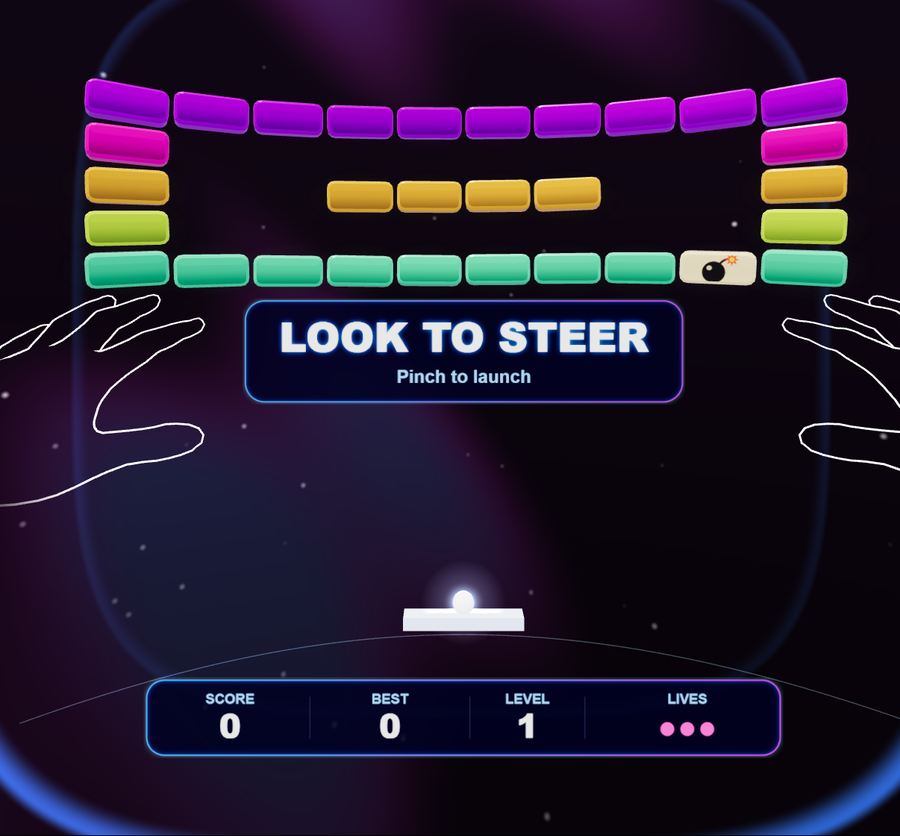
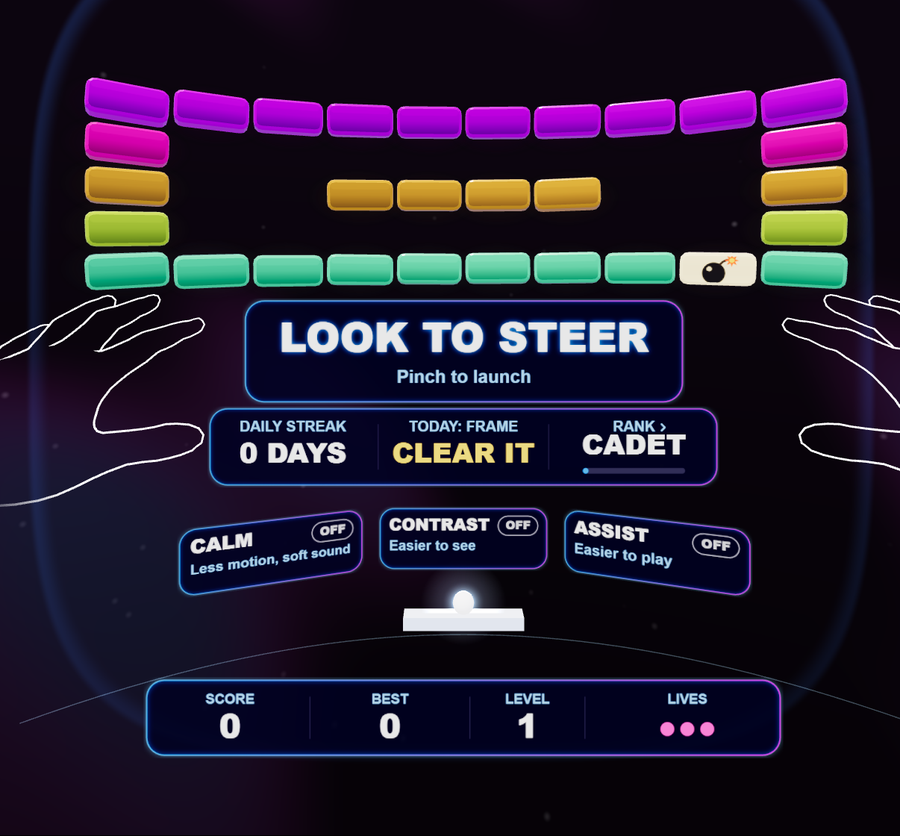
Show the option cards from the first screen, fix the rank chevron

diff --git a/src/look.ts b/src/look.ts
@@ -540,7 +540,13 @@ export function drawProgress(
   big(0, `${s.streak} ${s.streak === 1 ? 'DAY' : 'DAYS'}`, '#fff', s.streak > 0 ? h * 0.2 : 0);
   label(1, s.name ? `TODAY: ${s.name}` : "TODAY'S WALL");
   big(1, s.done ? 'CLEARED' : 'CLEAR IT', s.done ? T.on : '#ffd34d');
-  label(2, 'RANK  ›'); // the arrow hints that it opens the list
+  label(2, 'RANK');
+  // A drawn chevron after the label (the text glyph sits low), hinting that the panel opens the list.
+  const cx = col * 2.5 + g.measureText('RANK').width / 2 + h * 0.1, cy = h * 0.26, k = h * 0.04;
+  g.strokeStyle = T.label;
+  g.lineWidth = h * 0.022;
+  g.lineCap = g.lineJoin = 'round';
+  g.beginPath(); g.moveTo(cx - k / 2, cy - k); g.lineTo(cx + k / 2, cy); g.lineTo(cx - k / 2, cy + k); g.stroke();
   big(2, s.rank, '#fff', 0, 0.5);
   const bw = col * 0.6, bx = col * 2.5 - bw / 2, by = h * 0.76, bh = h * 0.07;
   g.fillStyle = 'rgba(255,255,255,0.18)';

diff --git a/src/breaker.ts b/src/breaker.ts
@@ -810,14 +810,9 @@ export class BreakerSystem extends createSystem({
     this.g.speed = this.speedFor();
   }
 
-  // Menus (progress, options) are hidden during play, and during a brand-new player's very first countdown,
-  // so the opening is one short instruction instead of a wall of panels.
-  private get firstEver(): boolean {
-    return this.state === 'ready' && this.prog.bricks === 0 && this.score === 0 && this.level === 1;
-  }
-
+  // Menus (progress, options) show whenever the ball isn't in play, so the options are there from the first screen.
   private get showMenus(): boolean {
-    return this.state !== 'play' && !this.firstEver;
+    return this.state !== 'play';
   }
 
   private save(): void {
